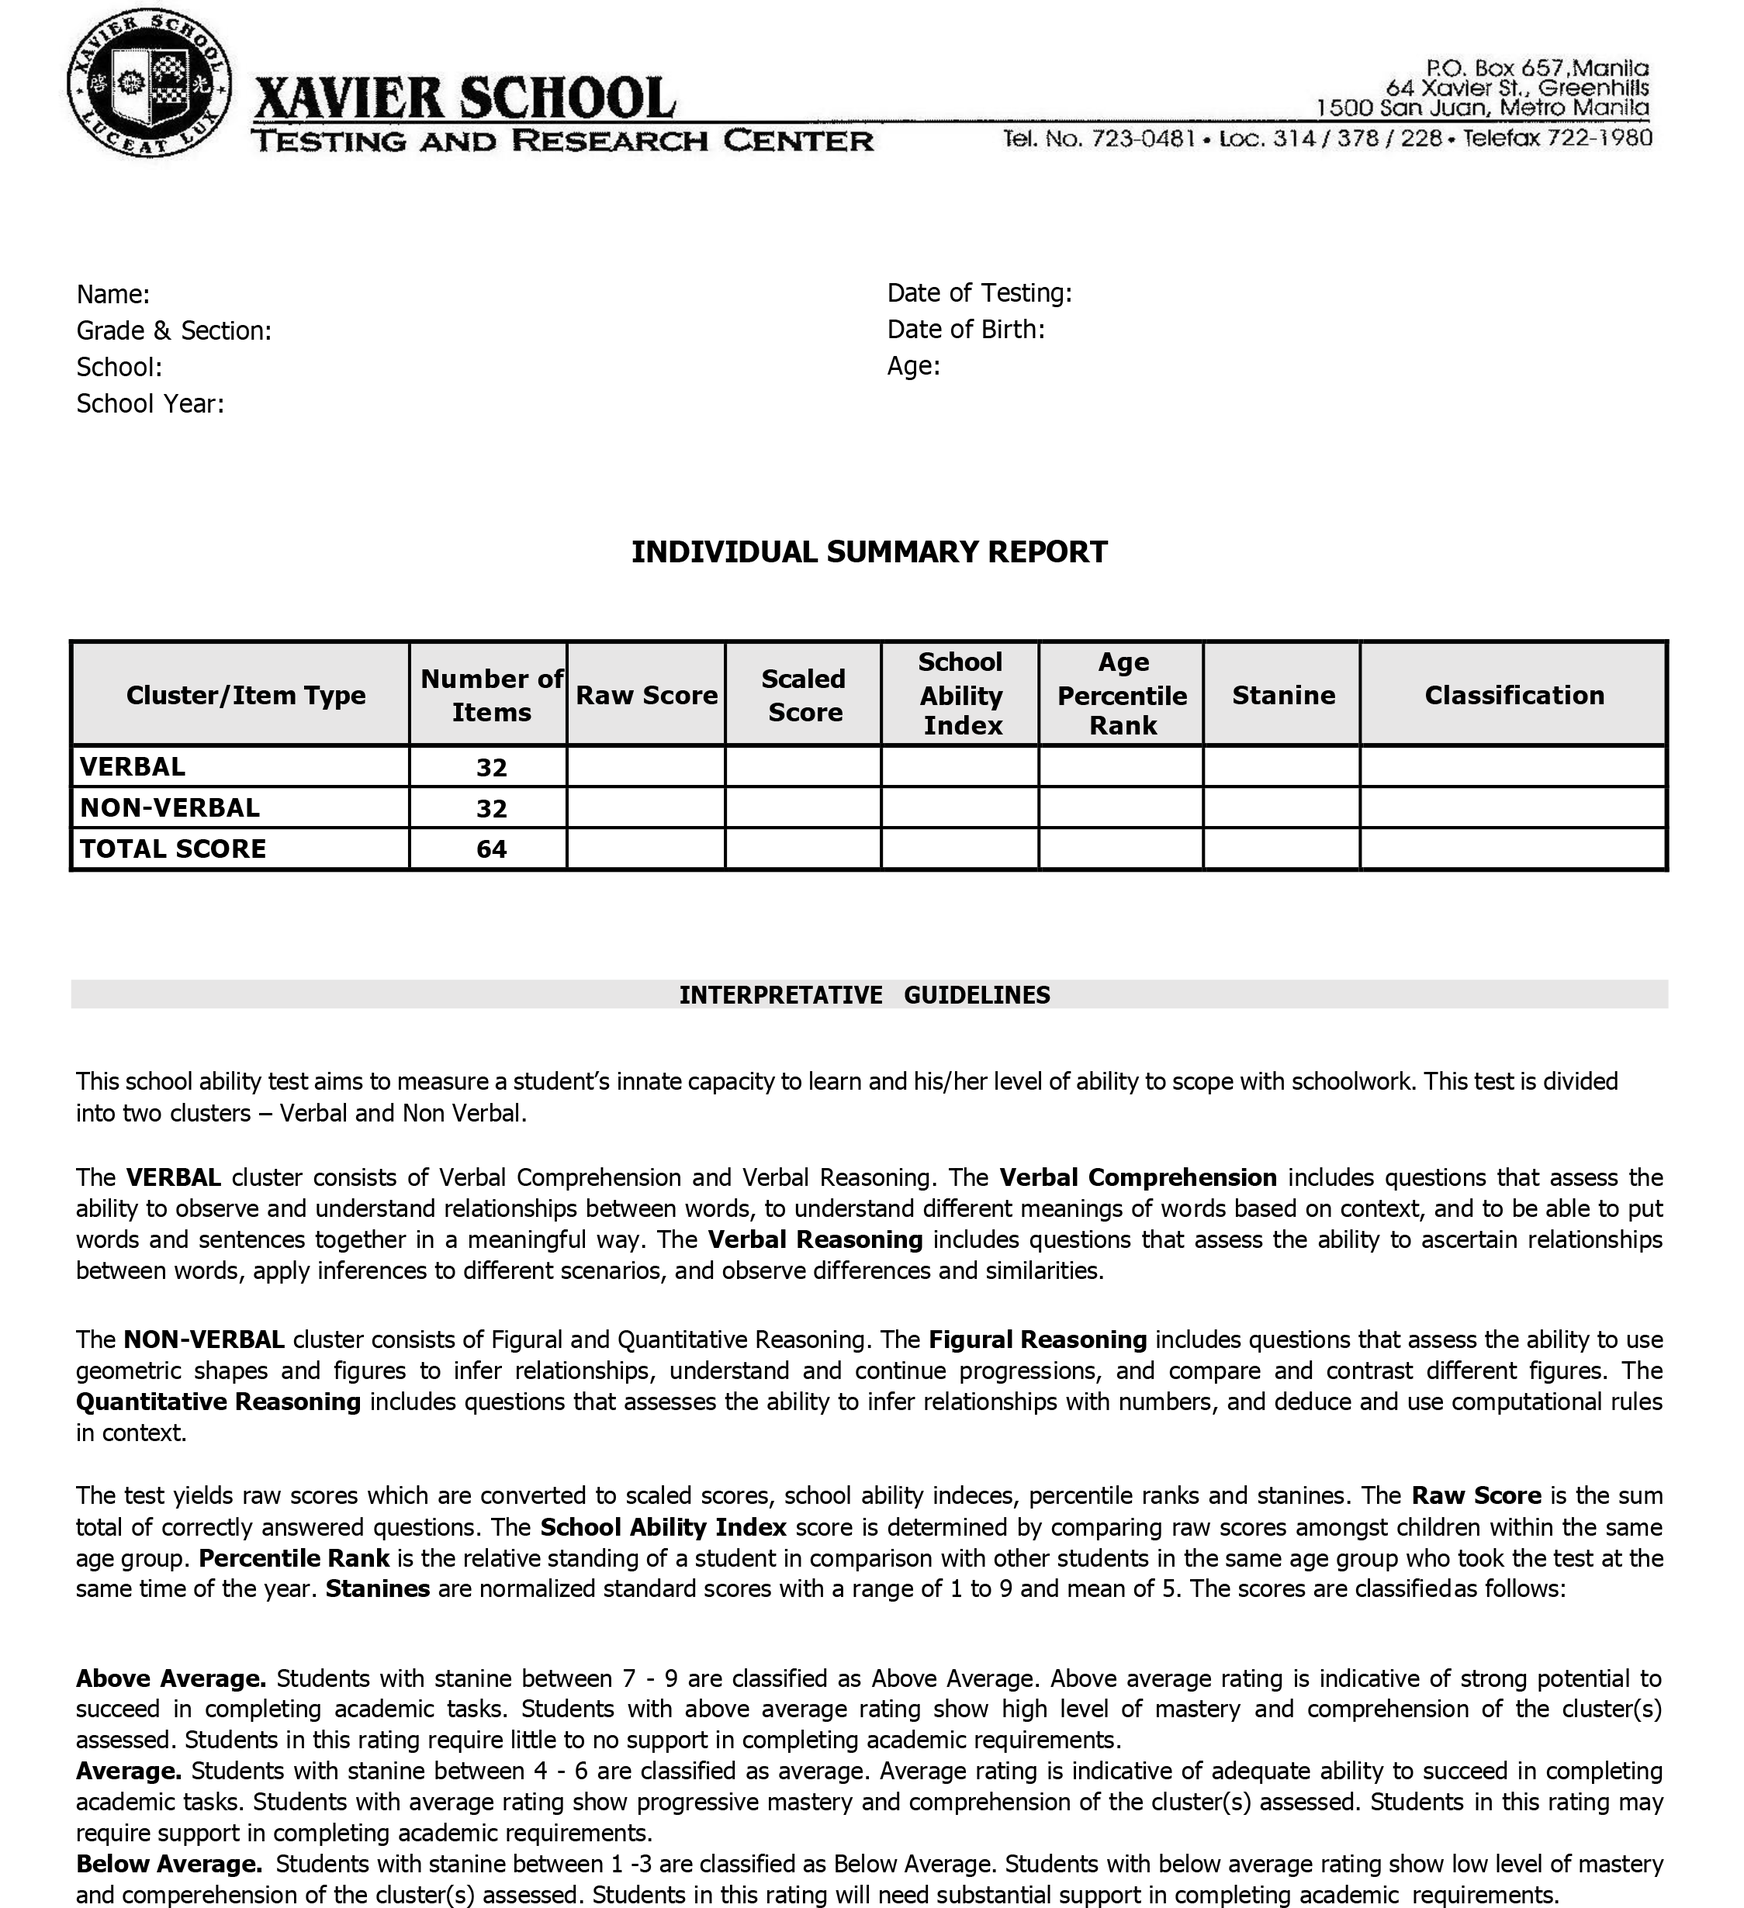
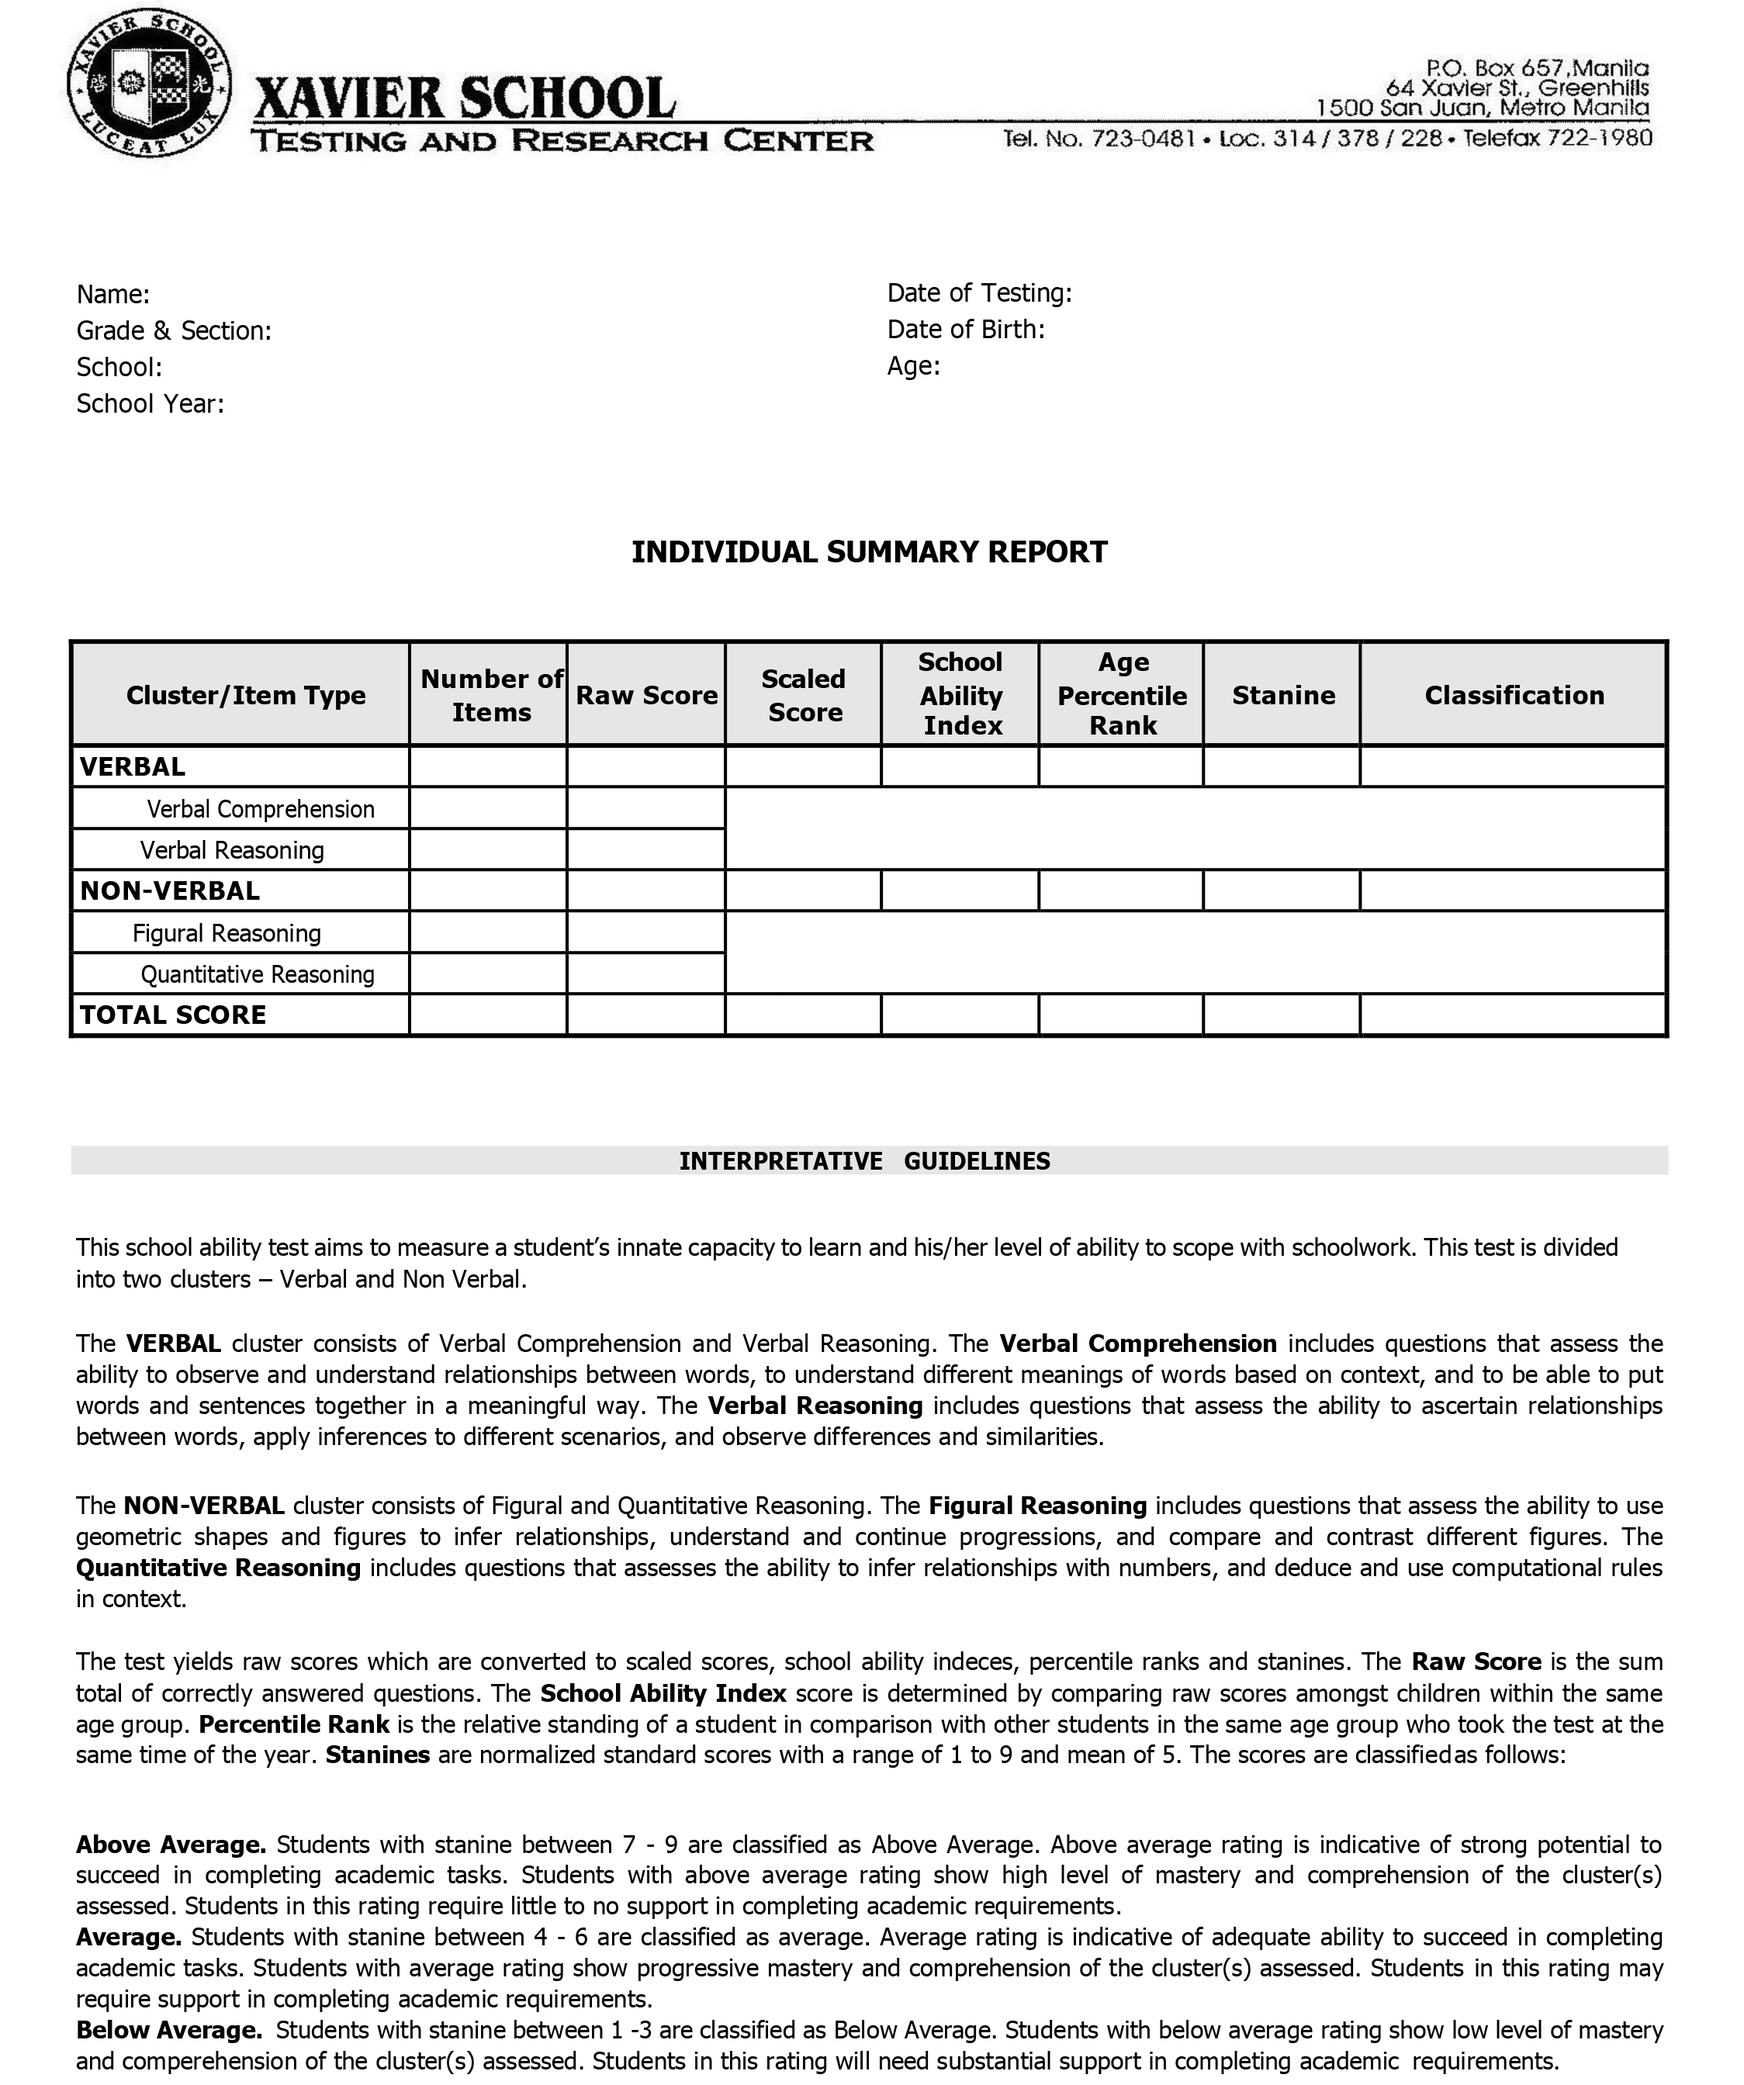
Finalized Individual PDF

diff --git a/public/css/pdf.css b/public/css/pdf.css
@@ -102,13 +102,13 @@ footer {
 
 .text-10 {
   position: absolute;
-  top: 34.2%;
+  top: 37.7%;
   left: 36.2%;
 }
 
 .text-11 {
   position: absolute;
-  top: 35.9%;
+  top: 43.1%;
   left: 36.2%;
 }
 
@@ -120,13 +120,13 @@ footer {
 
 .text-13 {
   position: absolute;
-  top: 34.2%;
+  top: 37.7%;
   left: 45.2%;
 }
 
 .text-14 {
   position: absolute;
-  top: 35.9%;
+  top: 43.1%;
   left: 45.2%;
 }
 
@@ -139,13 +139,13 @@ footer {
 
 .text-16 {
   position: absolute;
-  top: 34.2%;
+  top: 37.7%;
   left: 54.2%;
 }
 
 .text-17 {
   position: absolute;
-  top: 35.9%;
+  top: 43.1%;
   left: 54.2%;
 }
 
@@ -157,13 +157,13 @@ footer {
 
 .text-19 {
   position: absolute;
-  top: 34.2%;
+  top: 37.7%;
   left: 63.2%;
 }
 
 .text-20 {
   position: absolute;
-  top: 35.9%;
+  top: 43.1%;
   left: 63.2%;
 }
 
@@ -175,13 +175,13 @@ footer {
 
 .text-22 {
   position: absolute;
-  top: 34.2%;
+  top: 37.7%;
   left: 72.2%;
 }
 
 .text-23 {
   position: absolute;
-  top: 35.9%;
+  top: 43.1%;
   left: 72.2%;
 }
 
@@ -193,12 +193,12 @@ footer {
 
 .text-25 {
   position: absolute;
-  top: 34.2%;
+  top: 37.7%;
   left: 81.2%;
 }
 
 .text-26 {
   position: absolute;
-  top: 35.9%;
+  top: 43.1%;
   left: 81.2%;
 }

diff --git a/resources/views/student_result_export.blade.php b/resources/views/student_result_export.blade.php
@@ -12,12 +12,12 @@
 
             <div class="row-sm mt-4 picture-anchor">
             <img style="width: 100%; height: 100%;" src="./img/pdf/PDF_Export.png">
-            <div class="text-2">{{$student_details->name}}</div>
-            <div class="text-3">{{$student_details->grade_level}}</div>
+            <div class="text-2">{{$student_details->student_name}}</div>
+            <div class="text-3">{{$student_details->grade}}</div>
             <div class="text-4">Xavier School San Juan</div>
             <div class="text-5"></div>
             <div class="text-6">{{$student_details->exam_date}}</div>
-            <div class="text-7">{{$student_details->date_of_birth}}</div>
+            <div class="text-7">{{$student_details->birthday}}</div>
             <div class="text-8">{{$student_details->age_year}}.{{$student_details->age_month}} Years old</div>
             <div class="text-9">{{$student_details->verbal_raw}}</div>
             <div class="text-10">{{$student_details->nonverbal_raw}}</div>
@@ -34,9 +34,9 @@
             <div class="text-21">{{$student_details->verbal_stanine}}</div>
             <div class="text-22">{{$student_details->nonverbal_stanine}}</div>
             <div class="text-23">{{$student_details->total_stanine}}</div>
-            <div class="text-24"></div>
-            <div class="text-25"></div>
-            <div class="text-26"></div>
+            <div class="text-24">{{$student_details->verbal_classification}}</div>
+            <div class="text-25">{{$student_details->nonverbal_classification}}</div>
+            <div class="text-26">{{$student_details->total_classification}}</div>
         </div>
 
 </body>
